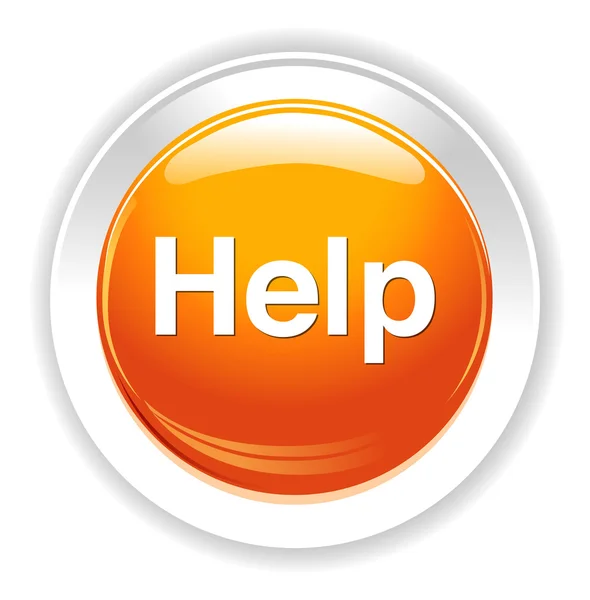
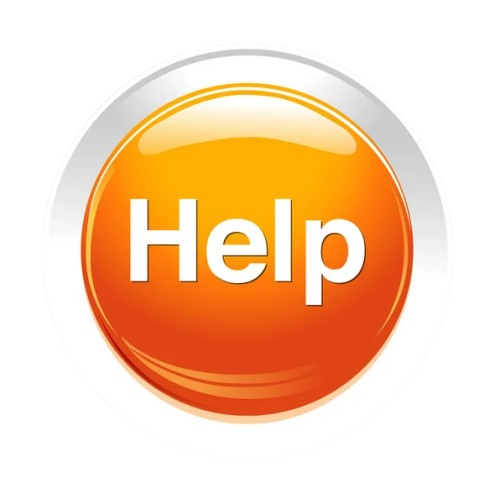
add font and fix some bug

diff --git a/core/src/main/java/io/github/cogdanh2k3/screens/GamePlay/LeaderboardScreen.kt b/core/src/main/java/io/github/cogdanh2k3/screens/GamePlay/LeaderboardScreen.kt
@@ -5,13 +5,13 @@ import com.badlogic.gdx.Preferences
 import com.badlogic.gdx.Screen
 import com.badlogic.gdx.graphics.*
 import com.badlogic.gdx.graphics.g2d.NinePatch
+import com.badlogic.gdx.graphics.g2d.SpriteBatch
 import com.badlogic.gdx.scenes.scene2d.Stage
 import com.badlogic.gdx.scenes.scene2d.ui.*
 import com.badlogic.gdx.scenes.scene2d.utils.NinePatchDrawable
 import com.badlogic.gdx.utils.Align
 import com.badlogic.gdx.utils.ScreenUtils
 import com.badlogic.gdx.utils.viewport.FitViewport
-import com.badlogic.gdx.utils.viewport.Viewport
 import io.github.cogdanh2k3.DataGame.SaveManager
 import io.github.cogdanh2k3.Main
 import io.github.cogdanh2k3.screens.MenuScreen
@@ -19,9 +19,10 @@ import io.github.cogdanh2k3.utils.FontUtils
 
 class LeaderboardScreen(private val game: Main) : Screen {
 
+    // ✅ Camera, viewport và stage riêng
     private val camera = OrthographicCamera()
     private val viewport = FitViewport(720f, 1280f, camera)
-    private val stage = Stage(viewport, game.batch)
+    private val stage = Stage(viewport)
 
     private val prefs: Preferences = Gdx.app.getPreferences("LeaderboardPrefs")
     private val leaderboard: MutableList<Int> = MutableList(10) { 0 }
@@ -29,11 +30,8 @@ class LeaderboardScreen(private val game: Main) : Screen {
     private lateinit var backButton: TextButton
     private lateinit var leaderboardImage: Texture
     private lateinit var gradientTexture: Texture
-    private var prevWidth = 0f
-    private var prevHeight = 0f
+
     override fun show() {
-        prevWidth = viewport.worldWidth
-        prevHeight = viewport.worldHeight
         Gdx.input.inputProcessor = stage
 
         // Gradient xanh–cam dọc
@@ -45,12 +43,11 @@ class LeaderboardScreen(private val game: Main) : Screen {
         leaderboardImage = Texture("UI/leaderboard.png")
         val list_high_score = SaveManager.gameSave.list_high_score
 
+        // Load điểm
         for (i in 0 until 10) {
-            leaderboard[i] = prefs.getInteger("score_$i", 0)
+            leaderboard[i] = prefs.getInteger("score_$i", list_high_score.getOrElse(i) { 0 })
         }
-        for(i in 0 until 10){
-            leaderboard[i] = list_high_score[i]
-        }
+
         val table = Table()
         table.setFillParent(true)
         table.top().padTop(100f)
@@ -99,8 +96,8 @@ class LeaderboardScreen(private val game: Main) : Screen {
         val btnStyle = TextButton.TextButtonStyle().apply {
             font = FontUtils.loadCustomFont(32, Color.WHITE)
             fontColor = Color.WHITE
-            up = makeButtonBackground(Color(0.05f, 0.25f, 0.5f, 1f))   // xanh đậm
-            down = makeButtonBackground(Color(0.03f, 0.2f, 0.4f, 1f))  // khi nhấn
+            up = makeButtonBackground(Color(0.05f, 0.25f, 0.5f, 1f))
+            down = makeButtonBackground(Color(0.03f, 0.2f, 0.4f, 1f))
         }
 
         backButton = TextButton("Back to Home", btnStyle)
@@ -111,6 +108,7 @@ class LeaderboardScreen(private val game: Main) : Screen {
 
         table.add(backButton).width(400f).height(90f)
     }
+
     private fun createVerticalGradient(top: Color, bottom: Color): Texture {
         val pixmap = Pixmap(1, 256, Pixmap.Format.RGBA8888)
         for (y in 0 until 256) {
@@ -153,11 +151,15 @@ class LeaderboardScreen(private val game: Main) : Screen {
         prefs.flush()
     }
 
+    private val bgBatch = SpriteBatch()
+
     override fun render(delta: Float) {
         ScreenUtils.clear(0f, 0f, 0f, 1f)
-        game.batch.begin()
-        game.batch.draw(gradientTexture, 0f, 0f, viewport.worldWidth, viewport.worldHeight)
-        game.batch.end()
+        bgBatch.projectionMatrix = viewport.camera.combined
+        bgBatch.begin()
+        bgBatch.draw(gradientTexture, 0f, 0f, viewport.worldWidth, viewport.worldHeight)
+        bgBatch.end()
+
         stage.act(delta)
         stage.draw()
     }
@@ -165,12 +167,15 @@ class LeaderboardScreen(private val game: Main) : Screen {
     override fun resize(width: Int, height: Int) {
         viewport.update(width, height, true)
     }
+
     override fun hide() {
-        viewport.setWorldSize(prevWidth, prevHeight)
-        viewport.update(Gdx.graphics.width, Gdx.graphics.height, true)
+        // ✅ Không thay đổi world size, chỉ clear stage
+        stage.clear()
     }
+
     override fun pause() {}
     override fun resume() {}
+
     override fun dispose() {
         stage.dispose()
         leaderboardImage.dispose()

diff --git a/core/src/main/java/io/github/cogdanh2k3/Mode/GameMode.kt b/core/src/main/java/io/github/cogdanh2k3/Mode/GameMode.kt
@@ -40,12 +40,16 @@ class EndlessMode : GameMode {
     }
     override fun checkLose(board: Board, score: Int): Boolean {
         // Lose khi không còn ô trống và không merge được
-        if (board.getEmptyCells().isNotEmpty()) return false
+        val hasUsableEmpty = board.getEmptyCells().any { (r, c) ->
+            val tile = board.getTile(r, c)
+            tile.frozen <= 0   // ô trống usable nếu frozen <= 0
+        }
+        if (hasUsableEmpty) return false  // còn ít nhất 1 ô trống usable → chưa thua
         for (r in 0 until board.size) {
             for (c in 0 until board.size) {
                 val v = board.getTile(r, c)
-                if (r + 1 < board.size && v == board.getTile(r + 1, c)) return false
-                if (c + 1 < board.size && v == board.getTile(r, c + 1)) return false
+                if (r + 1 < board.size && v == board.getTile(r + 1, c)&&(v.frozen<=0&&board.getTile(r + 1, c).frozen<=0)) return false
+                if (c + 1 < board.size && v == board.getTile(r, c + 1)&&(v.frozen<=0&&board.getTile(r + 1, c).frozen<=0)) return false
             }
         }
         return true
@@ -97,10 +101,7 @@ class TargetMode(
 
         return true // tất cả target đều match
     }
-
-
-
-    override fun checkLose(board: Board, score: Int): Boolean {
+/*    override fun checkLose(board: Board, score: Int): Boolean {
         if (board.getEmptyCells().isNotEmpty()) return false
         for (r in 0 until board.size) {
             for (c in 0 until board.size) {
@@ -110,7 +111,23 @@ class TargetMode(
             }
         }
         return true
+    }*/
+override fun checkLose(board: Board, score: Int): Boolean {
+    // Lose khi không còn ô trống và không merge được
+    val hasUsableEmpty = board.getEmptyCells().any { (r, c) ->
+        val tile = board.getTile(r, c)
+        tile.frozen <= 0   // ô trống usable nếu frozen <= 0
     }
+    if (hasUsableEmpty) return false  // còn ít nhất 1 ô trống usable → chưa thua
+    for (r in 0 until board.size) {
+        for (c in 0 until board.size) {
+            val v = board.getTile(r, c)
+            if (r + 1 < board.size && v == board.getTile(r + 1, c)&&(v.frozen<=0&&board.getTile(r + 1, c).frozen<=0)) return false
+            if (c + 1 < board.size && v == board.getTile(r, c + 1)&&(v.frozen<=0&&board.getTile(r + 1, c).frozen<=0)) return false
+        }
+    }
+    return true
+}
     private fun valueToRoman(value: Int): String {
         if (value < 2) return "?"
         // log2(value) = bậc (2=2^1, 4=2^2, 8=2^3, ...)
@@ -187,7 +204,8 @@ class TimedMode(
 class BattleMode(
     val boss: Boss,
     val maxMoves: Int = 25
-) : GameMode {
+) : GameMode
+{
 
     override val name: String = "Battle"
     override val data: DataGame = DataGame()

diff --git a/core/src/main/java/io/github/cogdanh2k3/screens/UI_SelectMode/ModeSelectScreen.kt b/core/src/main/java/io/github/cogdanh2k3/screens/UI_SelectMode/ModeSelectScreen.kt
@@ -41,35 +41,34 @@ class ModeSelectScreen(val game: Main) : Screen {
 
         // Button styles
         val classicStyle = createButtonStyle(
-            Color(0.1f, 0.6f, 0.9f, 0.9f),
+            Color(0.1f, 0.6f, 0.9f, 1f),
             Color(0.1f, 0.7f, 1f, 0.95f),
             Color(0f, 0.5f, 0.8f, 0.95f),
             font
         )
 
         val endlessStyle = createButtonStyle(
-            Color(0.2f, 0.8f, 0.2f, 0.9f),
+            Color(0.2f, 0.8f, 0.2f, 1f),
             Color(0.3f, 0.9f, 0.3f, 0.95f),
             Color(0.1f, 0.7f, 0.1f, 0.95f),
             font
         )
 
         val timedStyle = createButtonStyle(
-            Color(0.9f, 0.6f, 0.1f, 0.9f),
+            Color(0.9f, 0.6f, 0.1f, 1f),
             Color(1f, 0.7f, 0.2f, 0.95f),
             Color(0.8f, 0.5f, 0f, 0.95f),
             font
         )
 
-        // 🌟 Battle mode style (xanh da trời)
+// 🌟 Battle mode style (tím đỏ)
         val battleStyle = createButtonStyle(
-            upColor = Color(0.2f, 0.5f, 1f, 0.9f),
-            overColor = Color(0.3f, 0.6f, 1f, 0.95f),
-            downColor = Color(0.1f, 0.4f, 0.9f, 0.95f),
+            upColor = Color(0.7f, 0.2f, 0.5f, 1f),    // tím đỏ nhạt khi bình thường
+            overColor = Color(0.8f, 0.3f, 0.6f, 0.95f), // tím đỏ nổi bật khi hover
+            downColor = Color(0.6f, 0.1f, 0.4f, 0.95f), // tím đỏ đậm khi nhấn
             font = font,
             fontColor = Color.WHITE
         )
-
         val lockedStyle = createButtonStyle(
             upColor = Color(0.9f, 0.9f, 0.9f, 1f),
             overColor = Color(0.4f, 0.4f, 0.4f, 1f),
@@ -105,7 +104,7 @@ class ModeSelectScreen(val game: Main) : Screen {
             })
         }
 
-        val endlessButton = TextButton("CHILL MODE", endlessStyle).apply {
+        val endlessButton = TextButton("ENDLESS MODE", endlessStyle).apply {
             addListener(object : ClickListener() {
                 override fun clicked(event: InputEvent?, x: Float, y: Float) {
                     game.screen = GameScreen(game, EndlessMode())
@@ -131,7 +130,7 @@ class ModeSelectScreen(val game: Main) : Screen {
             })
         }
 
-        val mode4Button = TextButton("MODE 4 (LOCK)", lockedStyle).apply { isDisabled = true }
+        val mode4Button = TextButton("MODE 5 (LOCK)", lockedStyle).apply { isDisabled = true }
 
         // Sắp xếp UI
         root.top().pad(40f)

diff --git a/core/src/main/java/io/github/cogdanh2k3/Fonts/FontUtils.kt b/core/src/main/java/io/github/cogdanh2k3/Fonts/FontUtils.kt
@@ -7,7 +7,7 @@ import com.badlogic.gdx.graphics.g2d.freetype.FreeTypeFontGenerator
 
 object FontUtils {
     fun loadCustomFont(size: Int, color: Color = Color.WHITE): BitmapFont {
-        val generator = FreeTypeFontGenerator(Gdx.files.internal("fonts/font_kkk.TTF"))
+        val generator = FreeTypeFontGenerator(Gdx.files.internal("fonts/font_new.ttf"))
         val parameter = FreeTypeFontGenerator.FreeTypeFontParameter().apply {
             this.size = size
             this.color = color
